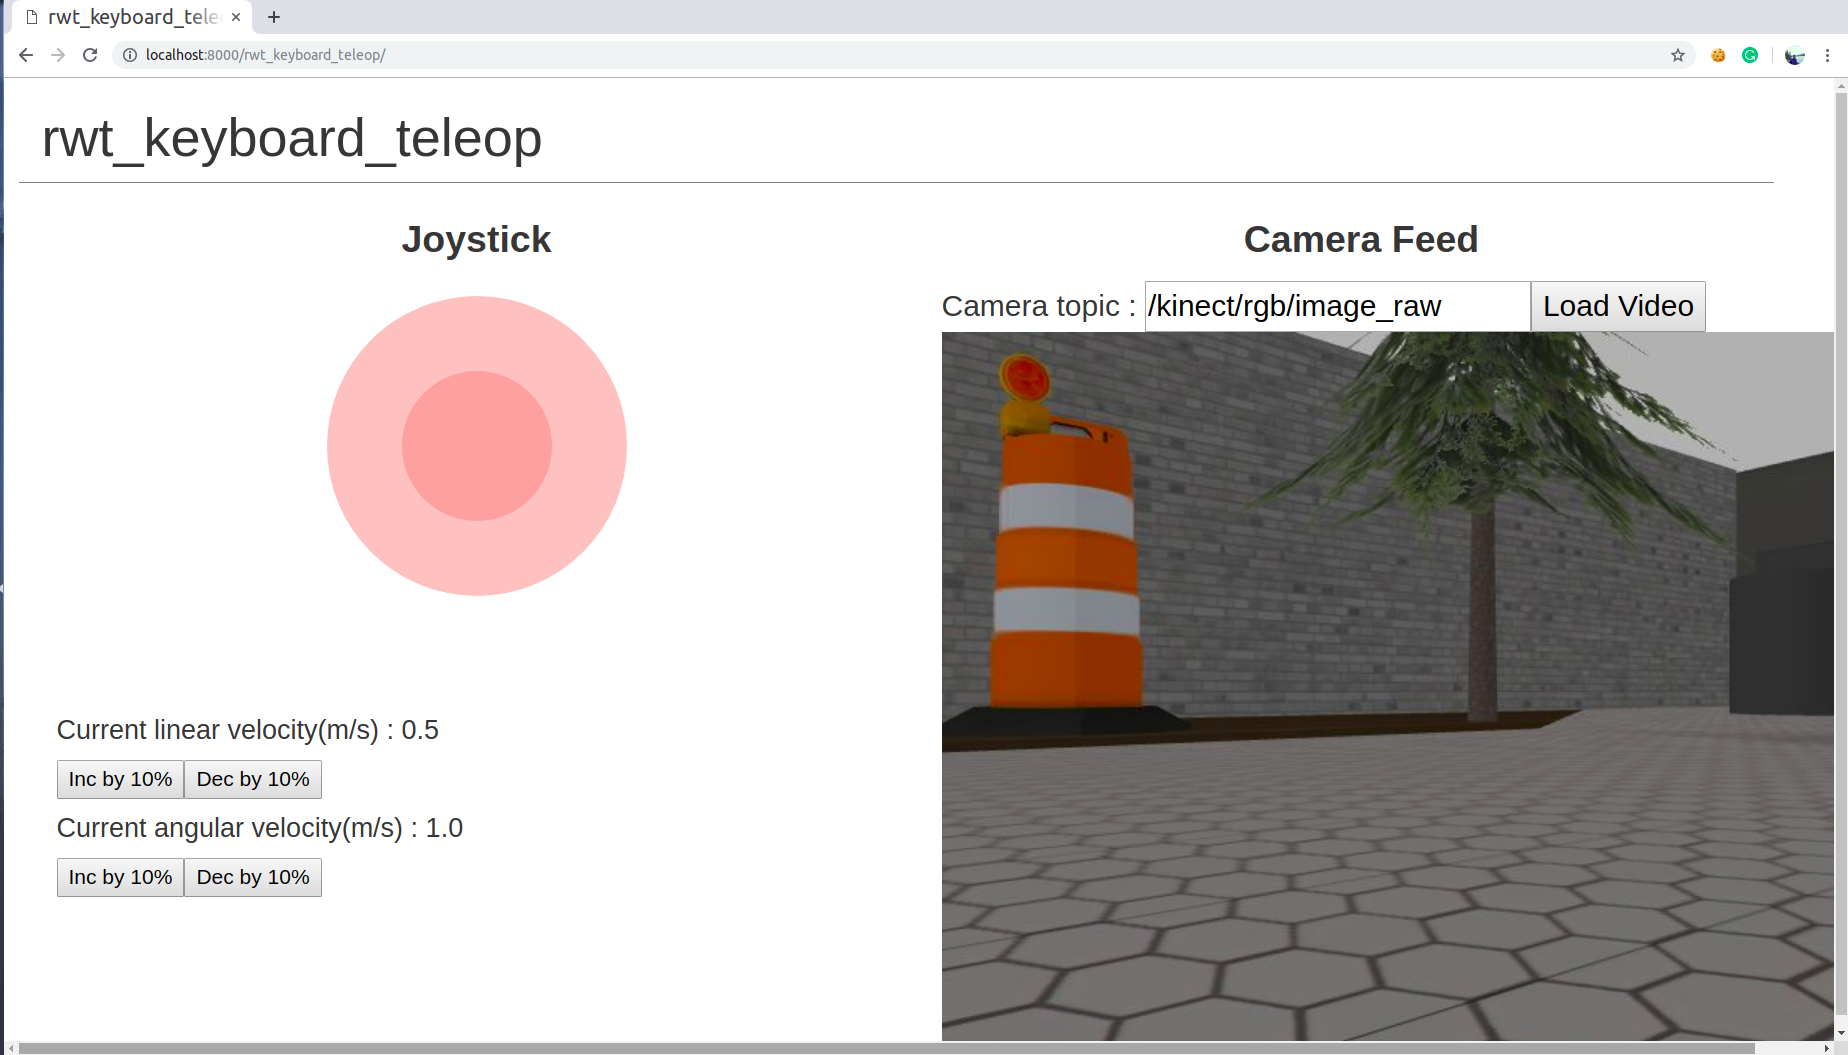
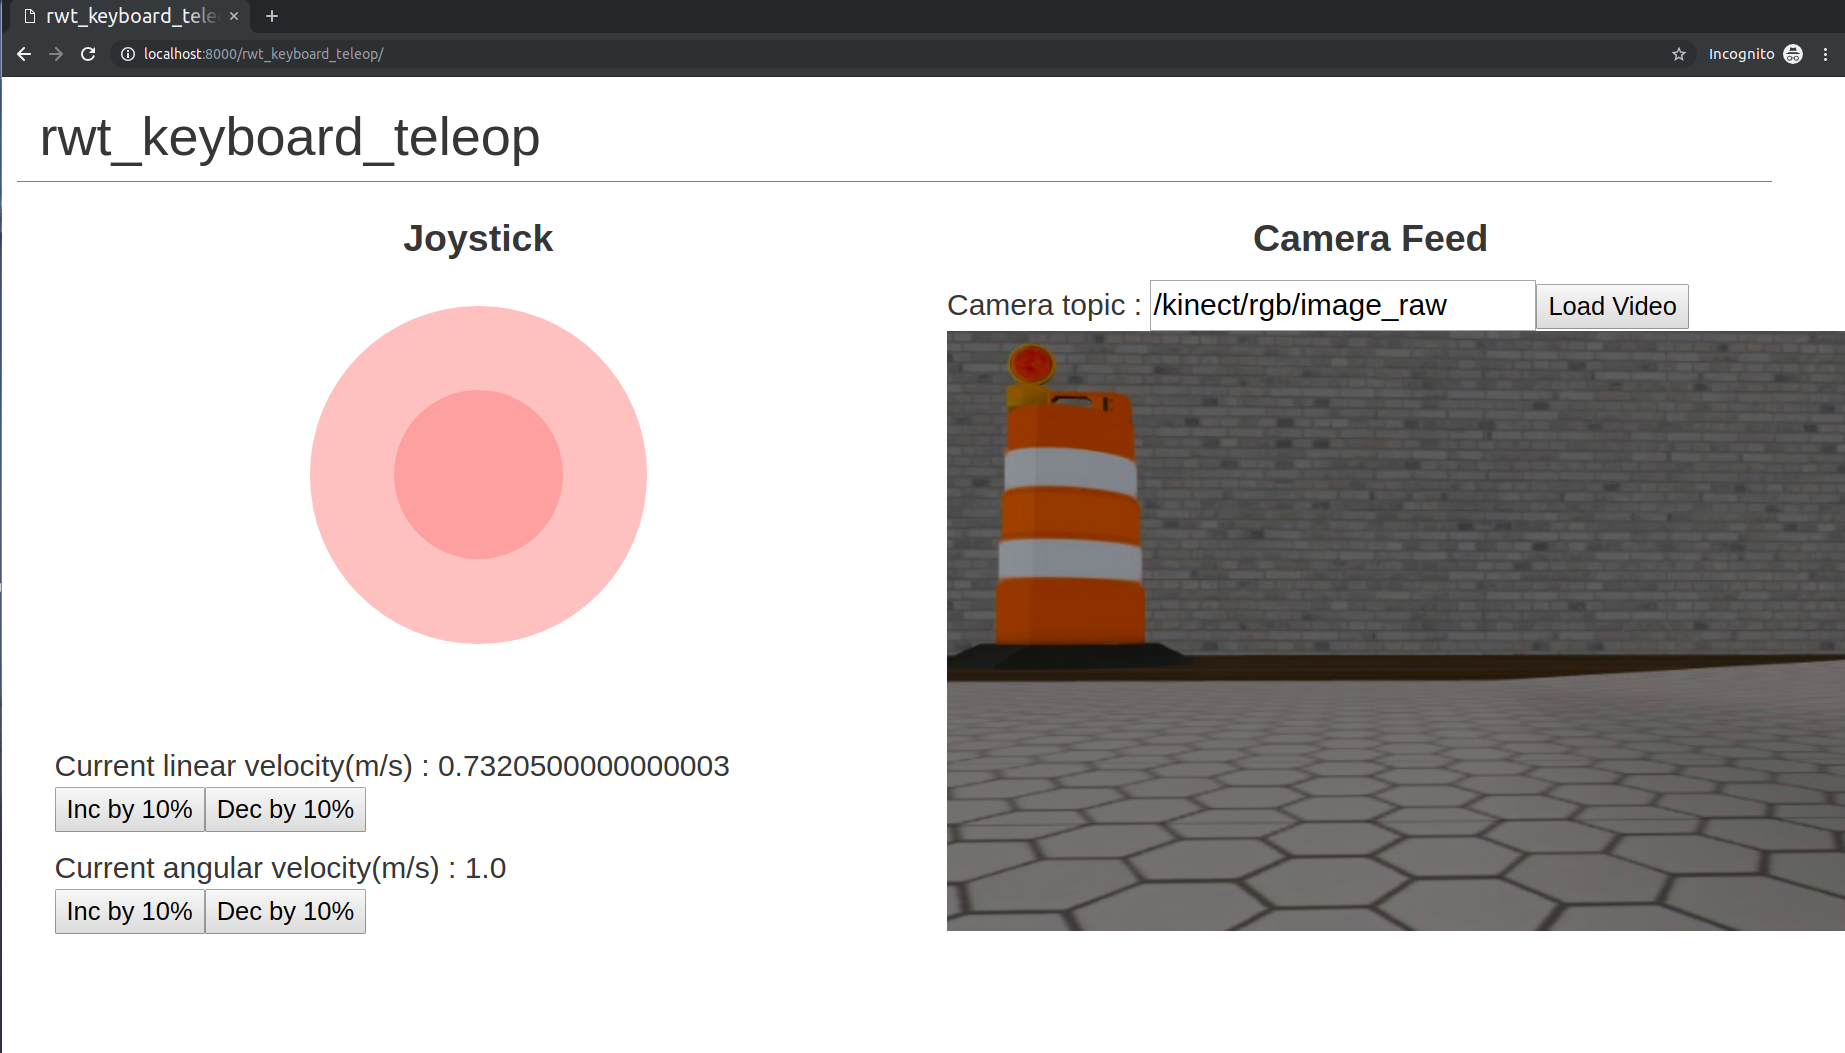
Final Update

diff --git a/rwt_keyboard_teleop/www/index.html b/rwt_keyboard_teleop/www/index.html
@@ -23,10 +23,10 @@
             <div id="Head">Joystick</div>
             <div id="joystick"></div>
             <div id = "linvel">
-              <h4>Current linear velocity(m/s)  : <span id="lindisp">0.5</span></h4><button id = "bl1">Inc by 10%</button><button id = "bl2">Dec by 10%</button>
+              <div id="display">Current linear velocity(m/s)  : <span id="lindisp">0.5</span></div><button id = "bl1">Inc by 10%</button><button id = "bl2">Dec by 10%</button>
             </div>  
             <div id = "angvel"> 
-            <h4>Current angular velocity(m/s) : <span id="angdisp">1.0</span></h4><button id = "ba1">Inc by 10%</button><button id = "ba2">Dec by 10%</button>
+              <div id="display">Current angular velocity(m/s) : <span id="angdisp">1.0</span></div><button id = "ba1">Inc by 10%</button><button id = "ba2">Dec by 10%</button>
            </div>
         </div>
         <div class="col-lg-6">

diff --git a/rwt_keyboard_teleop/www/js/rwt_joystick.js b/rwt_keyboard_teleop/www/js/rwt_joystick.js
@@ -35,7 +35,7 @@ function createJoystick() {
         var options = {
             zone: joystickContainer,
             color: "#FF0000",
-            size: 200,
+            size: 225,
             
             mode: 'static',
             restJoystick: true
@@ -146,7 +146,7 @@ function videoon() {
     var lv = document.getElementById("lv");
     
     lv.addEventListener("click", function() {
-        video.src = "http://localhost:8080/stream?topic=" + cameratopic +"&type=mjpeg&quality=80";
+        video.src = "http://localhost:8080/stream?topic=" + cameratopic +"&type=mjpeg&width=600&height=400";
     })
     
     

diff --git a/rwt_keyboard_teleop/www/css/ui.css b/rwt_keyboard_teleop/www/css/ui.css
@@ -3,6 +3,7 @@
     border-bottom: 0.5px solid grey;
     
 }
+
 .row{
     margin: 20px 20px auto 20px;
     text-align: center;
@@ -14,16 +15,23 @@
 }
 
 #joystick{
-    margin: 120px auto auto 50%;
+    margin: 140px auto auto 50%;
 }
 
 #linvel{
     text-align: left;
-    margin-top : 300px;
+    margin-top : 320px;
+
 }
+
 #angvel{
     text-align: left;
     margin-top : 10px;
+
+}
+
+#display{
+    font-size: 20px;
 }
 
 #topic{
@@ -32,3 +40,6 @@
     font-size: 20px;
 }
 
+button{
+    font-size:17px
+}
